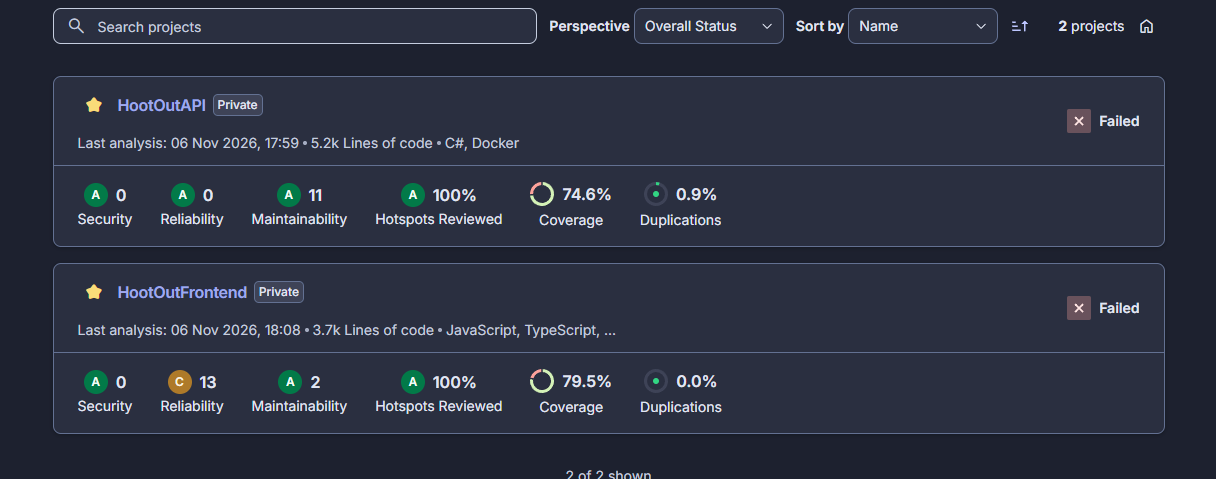
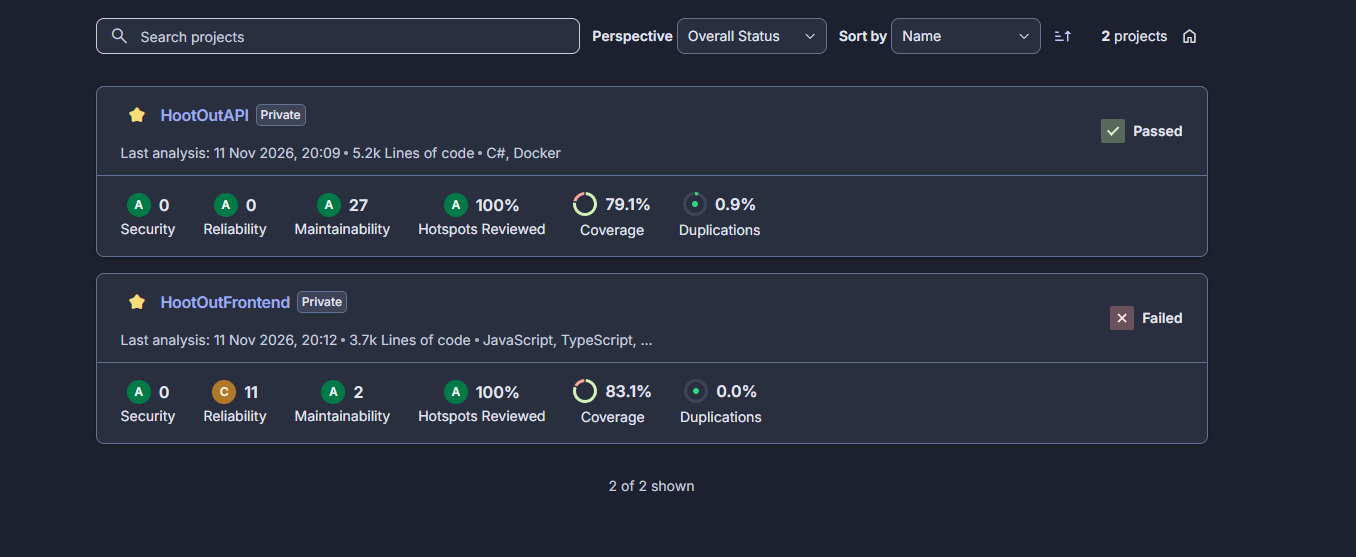
Fix frontend sonar issues

diff --git a/frontend/src/components/shared/table/PaginatedTable.vue b/frontend/src/components/shared/table/PaginatedTable.vue
@@ -153,6 +153,7 @@
           <tr class="border-bottom-1">
             <th
               v-for="header in headers"
+              :key="header.key"
               class="py-2"
               :class="header.canSort ? 'pointer' : ''"
               @click="
@@ -177,9 +178,9 @@
           </tr>
         </thead>
         <tbody class="overflow-y-auto">
-          <tr v-for="row in tableRows" class="border-bottom-1 hover:background-light">
+          <tr v-for="row in tableRows" :key="row" class="border-bottom-1 hover:background-light">
             <!-- data-label is shown next to the value in the mobile card layout -->
-            <td v-for="header in headers" class="py-4" :data-label="header.name">
+            <td v-for="header in headers" class="py-4" :key="header.key" :data-label="header.name">
               {{ row[header.key].display }}
             </td>
             <td v-if="hasActions" class="actions-cell">

diff --git a/frontend/src/components/shared/ValidationErrors.vue b/frontend/src/components/shared/ValidationErrors.vue
@@ -5,8 +5,8 @@
 </script>
 
 <template>
-  <div v-for="val in errors?.values()">
-    <p v-for="err in val.values()" :key="err" class="custom-form-field-error">
+  <div v-for="key in errors?.keys()" :key="key">
+    <p v-for="err in errors?.get(key)?.values() ?? []" :key="err" class="custom-form-field-error">
       {{ err }}
     </p>
   </div>

diff --git a/frontend/src/components/channel/CreateChannel.vue b/frontend/src/components/channel/CreateChannel.vue
@@ -15,7 +15,7 @@
   const router = useRouter()
 
   async function selectChannel(channel: ChatChannel) {
-    router.push({
+    await router.push({
       name: 'channel',
       params: { serverId: currentServer.value?.id, channelId: channel.id },
     })

diff --git a/frontend/src/components/server/InviteMemberForm.vue b/frontend/src/components/server/InviteMemberForm.vue
@@ -35,7 +35,7 @@
         username: form.username,
         chatServerId: props.server?.id,
       })
-      cleanForm()
+      await cleanForm()
       emit('success', invitation)
     } catch (err) {
       error.value =
